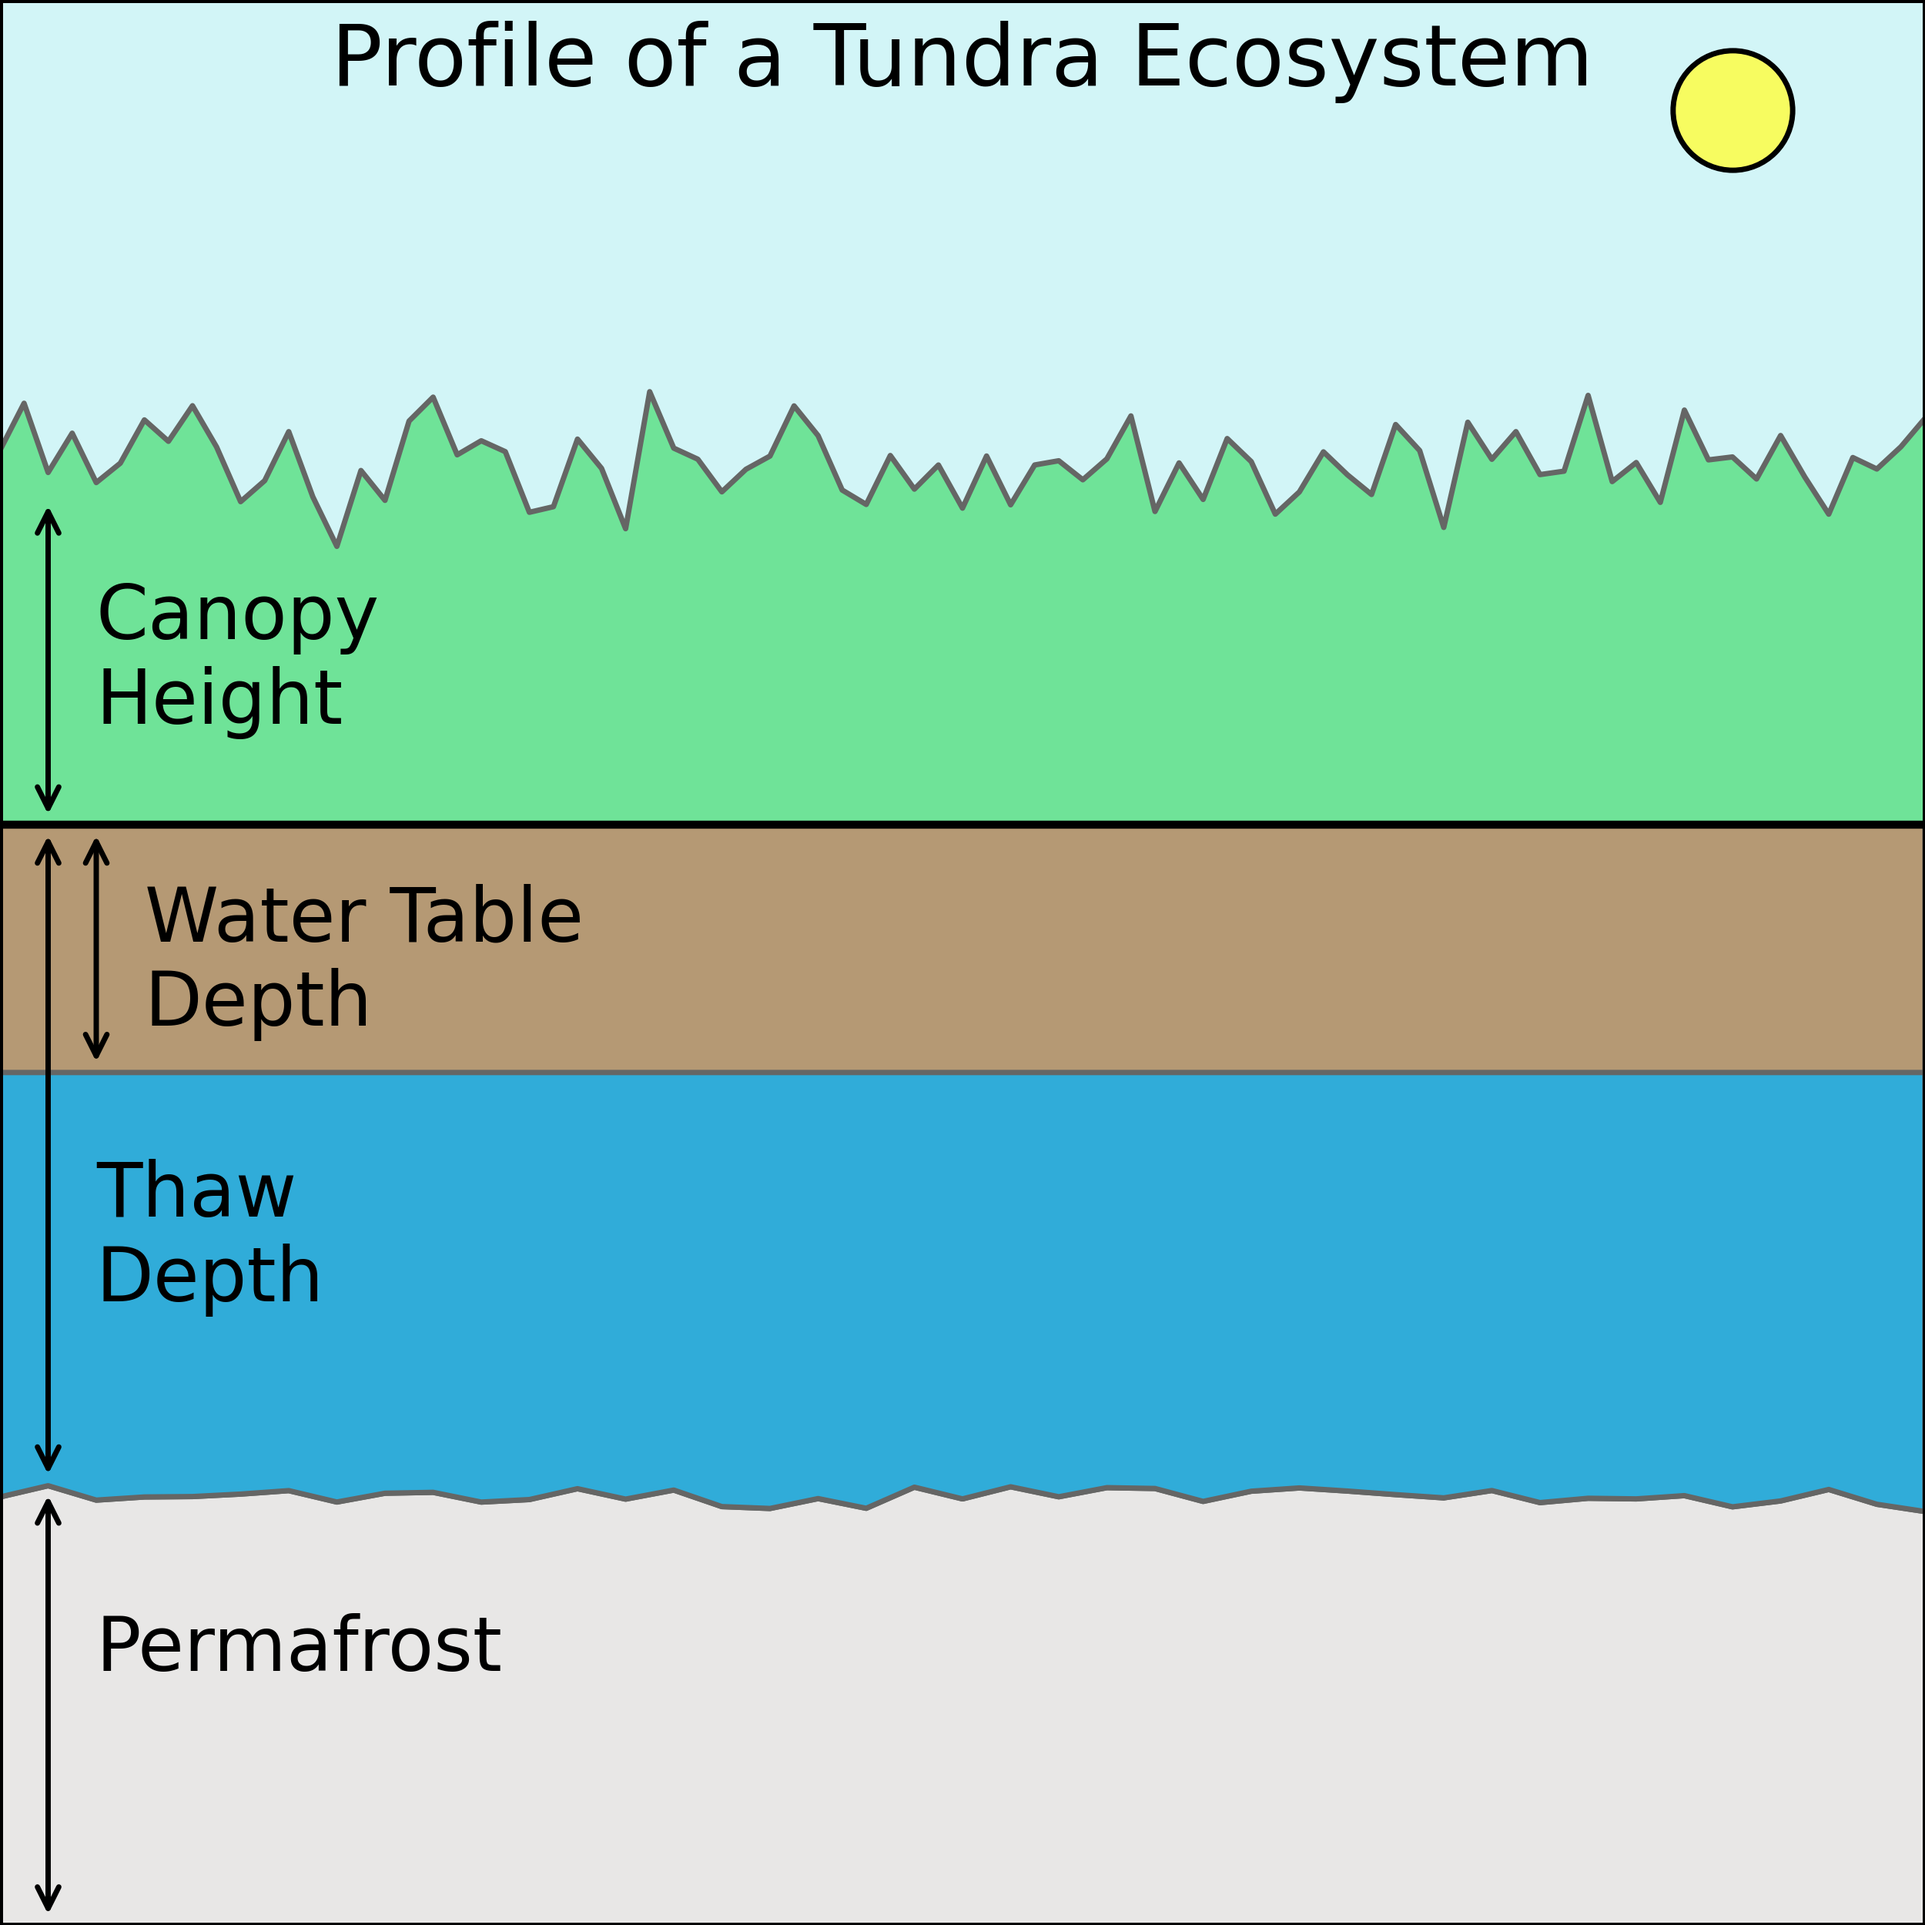
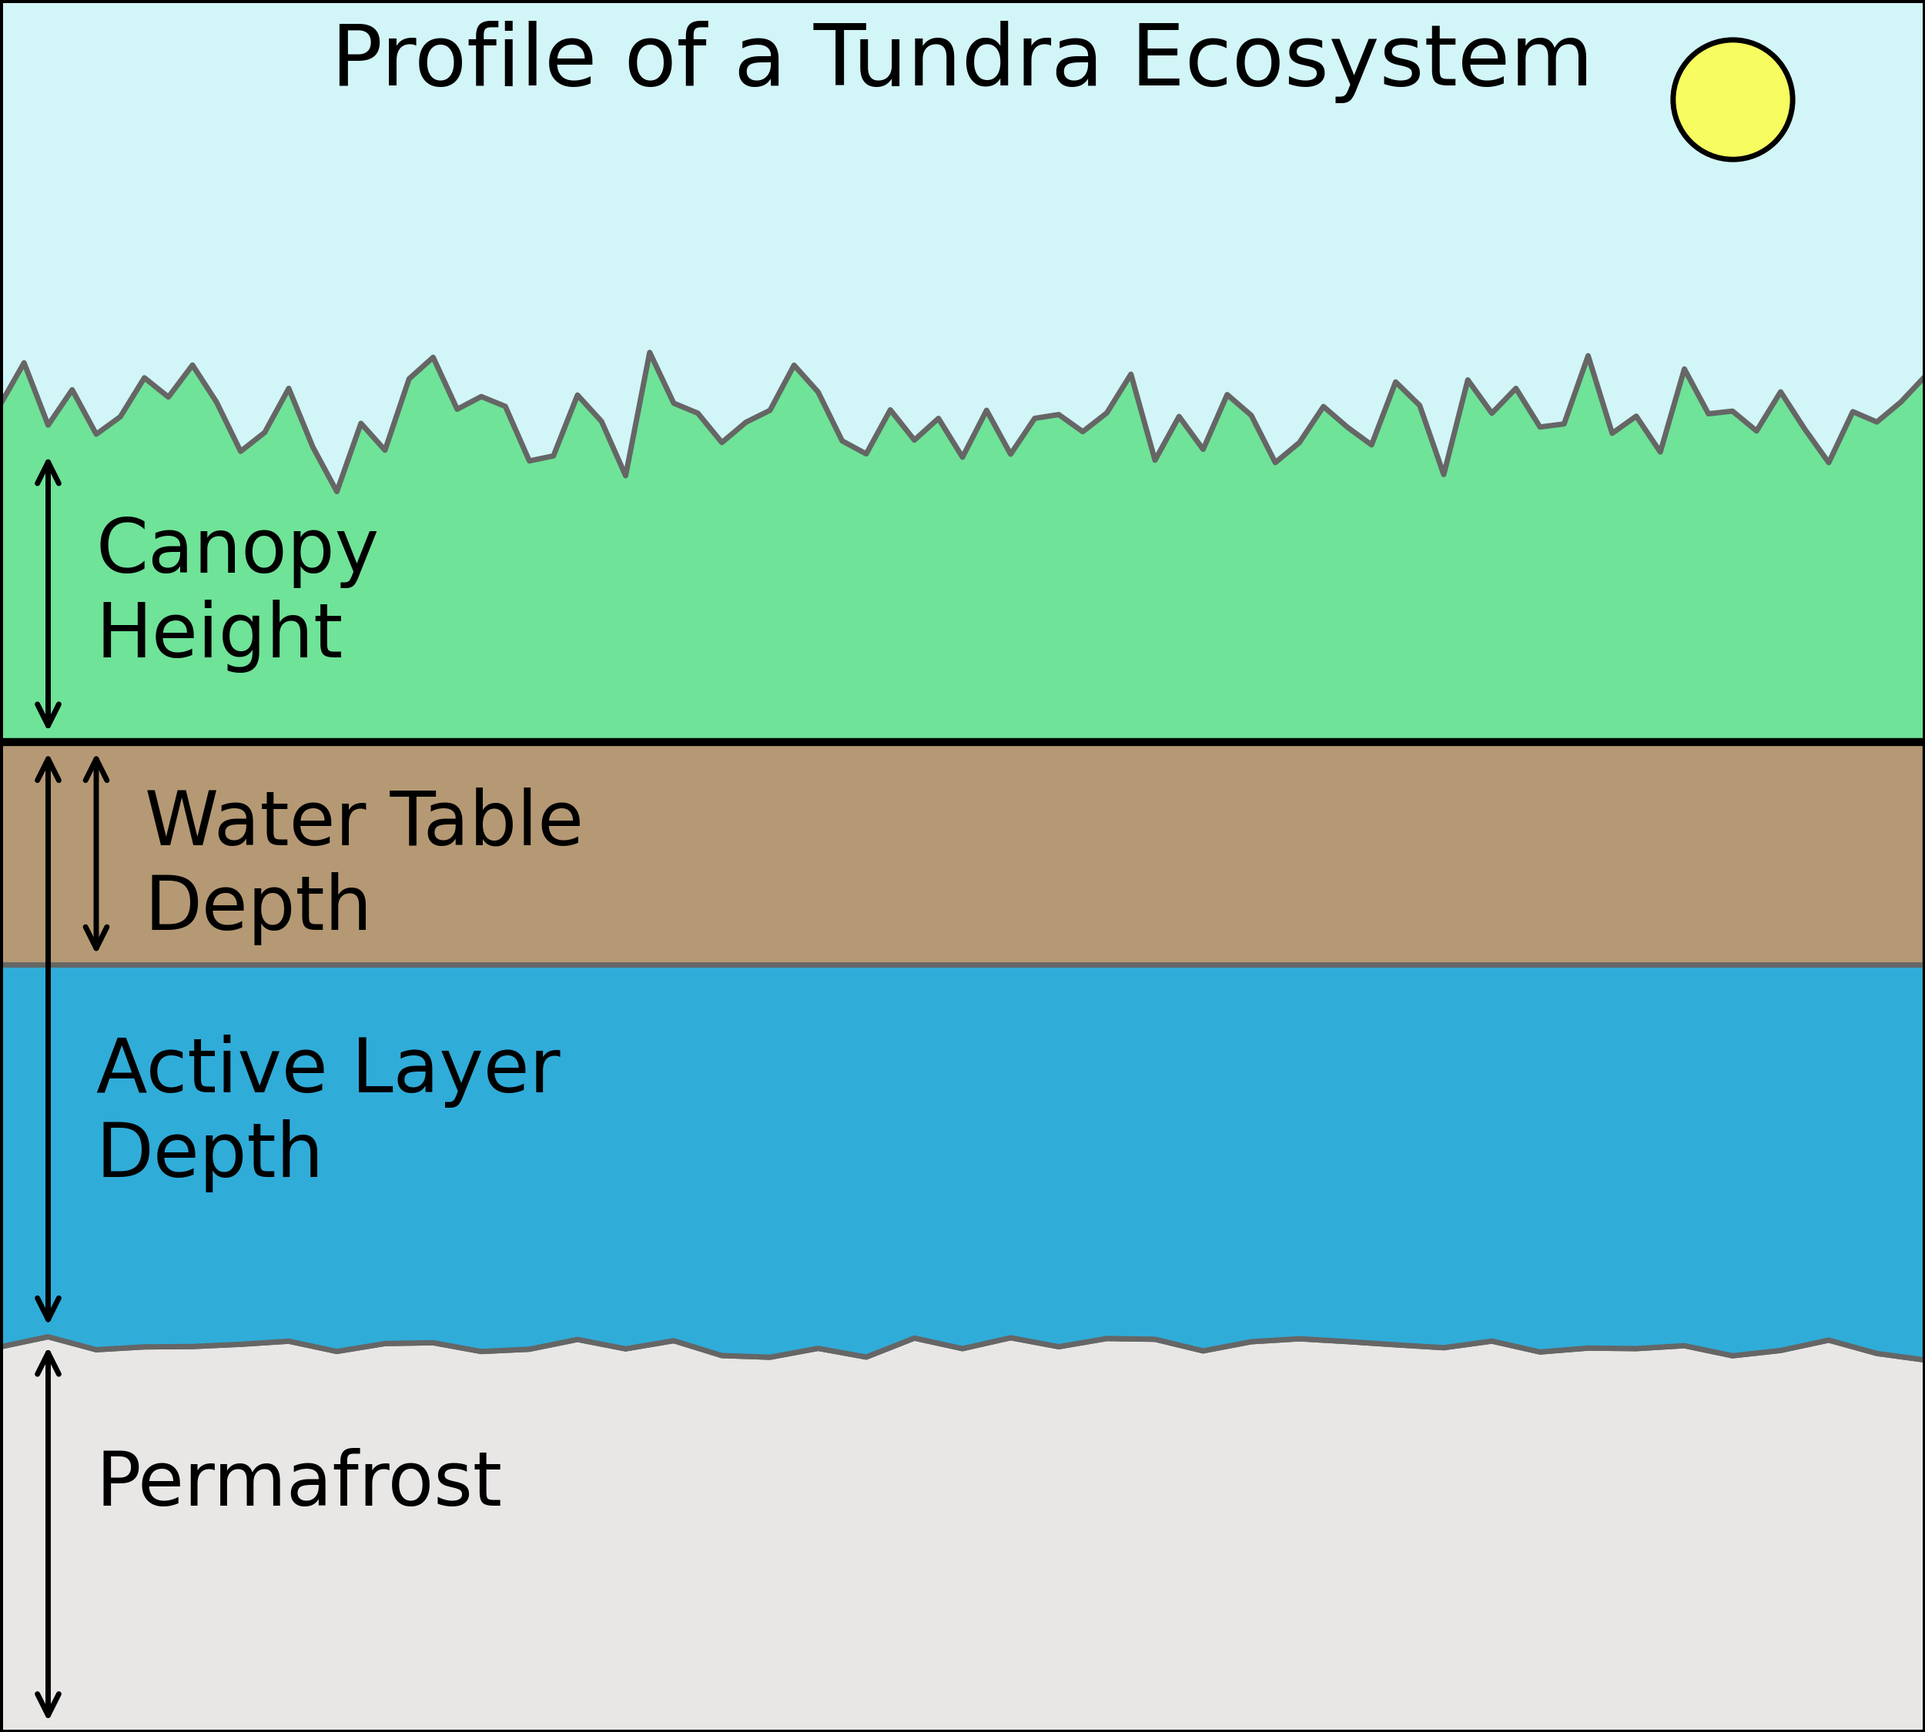
updates

diff --git a/index.html b/index.html
@@ -108,7 +108,6 @@
   top: 50%;
   -ms-transform: translateY(-50%);
   transform: translateY(-50%);
-  /* font-size: 65%; */
   text-align: center;
   display: block;
 }
@@ -135,6 +134,10 @@
  text-align: left;
  position: absolute; 
   display: flex;
+}
+
+.caption {
+  font-size: 70%;
 }
 
 h1 {
@@ -198,7 +201,18 @@ ol ol li.nl::before {
     left:0%;
     orphans: 3;
   } 
+  
+sup {
+  line-height: 0;
+  vertical-align: top;
+  font-size: 0.6em !important;
+  }
 
+sub {
+  line-height: 0;
+  vertical-align: bottom;
+  font-size: 0.6em !important;
+  }
 
 #main img {
     float: left;
@@ -225,8 +239,8 @@ ol ol li.nl::before {
           <div class="left">
             <p>I would like to acknowledge the Indigenous territories on which this work took place.</p>
             <ul>
+              <li>The study area was in the Inuvialuit Settlement Region</li>
               <li>I have been living and working in unceded Coast Salish territory</li>
-              <li>Field work was conducted in the Inuvialuit Settlement Region</li>
             </ul>
           </div>
           <div class="right">
@@ -266,7 +280,7 @@ ol ol li.nl::before {
           </div>
             <div class="figure_short">
               <img src="images/CMIP.png" width="100%"; style = "border:2px solid #555">
-              Data Source: IPCC (2021)
+              <p class="caption">Source: IPCC (2021)</p>
             </div>
       </section>
       
@@ -284,8 +298,8 @@ ol ol li.nl::before {
           </ul>
           </div>
           <div class="figure_full">
-            <img src="images/Fig1.png" width="90f%"; style = "border:2px solid #555">
-            Data Sources: Walker et al. (2005); Pallandt et al. (2021)
+            <img src="images/Fig1.png" width="100%"; style = "border:2px solid #555">
+            <p class="caption">Sources: Walker et al. (2005); Pallandt et al. (2021)</p>
           </div>
       </section>
 
@@ -293,7 +307,7 @@ ol ol li.nl::before {
         <div class="container">
           <h2 class="header">Tundra Ecosystems</h2>
           <div class="left">
-            <p>Harsh conditions limit vegetation growth.</p>
+            <p>Harsh conditions stunt vegetation.</p>
               <ul>
                 <li>Summers are brief but productive</li>
                 <li>Winters are long, dark, and frigid</li>
@@ -304,7 +318,7 @@ ol ol li.nl::before {
             </div>
             <div class="figure_short">
               <img src="images/Tundra_Veg.JPG" width="575"; style = "border:2px solid #555">
-              Reindeer grazing on willow shrubs at Illisarvik
+              <p class="caption">Reindeer grazing at Illisarvik</p>
             </div>
         </div>
       </section>
@@ -313,20 +327,24 @@ ol ol li.nl::before {
         <div class="container">
           <h2 class="header">Tundra Ecosystems</h2>
           <div class="left">
-            <p><b>Permafrost</b> is widespread in tundra environments.</p>
+            <p><b>Permafrost</b> is nearly ubiquitous in the Arctic.</p>
               <ul>
-                <li>Root growth and microbial activity occur in the <b>active layer</b></li>
+                <li><b>Active layer</b> thaws seasonally</li>
                 <ul>
-                  <li>Thaws seasonally</li>
+                  <li>Root growth</li>
+                  <li>Microbial activity</li>
                 </ul>
-                <li>Restricted drainage leads to elevated <b>water tables</b></li>
+                <li><b>Water tables</b> are often elevated</li>
                 <ul>
-                  <li>Inhibits decomposition</li>
+                  <li>Restricted drainage</li>
+                  <li>Low evapotranspiration</li>
                 </ul>                
               </ul>                
           </div>
           <div class="figure_full">
-            <img src="images/Permafrost.png" width="575"; style = "border:2px solid #555">
+            <br>
+            <br>
+            <img src="images/Permafrost.png" width="100%"; style = "border:2px solid #555">
           </div>
 
         </div>
@@ -334,64 +352,77 @@ ol ol li.nl::before {
 
       <section>
         <div class="container">
-          <h2 class="header">Tundra Carbon Balance</h2>
+          <h2 class="header">Net Ecosystem Exchange (NEE)</h2>
           <div class="left">
-            <p>Net Ecosystem Exchange (NEE) of CO<sub>2</sub> is the primary component.</p>
+            <p>NEE = ER - GPP</p>
               <ul>
-                <li>NEE = ER - GPP</li>
+                <li><b>GPP</b>: Gross Primary Productivity</li> 
                 <ul>
-                  <li><b>GPP</b>: Gross Primary Productivity</li> 
-                  <ul>
-                    <li>Photosynthetic uptake of CO<sub>2</sub></li>
-                  </ul>
-                  <li><b>ER</b>: Ecosystem Respiration</li> 
-                  <ul>
-                    <li>Autotrophic (RA) + Heterotrophic (RH)</li>
-                  </ul>
+                  <li>Photosynthetic uptake of CO<sub>2</sub></li>
                 </ul>
-                <li>-/+ NEE (uptake/emission)</li>
+                <li><b>ER</b>: Ecosystem Respiration</li> 
+                <ul>
+                  <li>Autotrophic (RA)</li>
+                  <li>Heterotrophic (RH)</li>
+                </ul>
+                <li>Sign convention</li>
+                <ul>
+                  <li>-NEE = uptake</li>
+                  <li>+NEE = emission</li>
+                </ul>
               </ul>                
           </div>
           <div class="figure_full">
-            <img src="images/Permafrost_NEE.png" width="575"; style = "border:2px solid #555">
+            <br>
+            <br>
+            <img src="images/Permafrost_NEE.png" width="100%"; style = "border:2px solid #555">
           </div>
         </div>
       </section>
           
       <section>
         <div class="container">
-          <h2 class="header">Tundra Carbon Balance</h2>
+          <h2 class="header">Net Methane Exchange (NME)</h2>
           <div class="left">
-            <p>Net Methane Exchange (NEE) of CH<sub>4</sub> is a secondary component.</p>
+            <p>NME = Production - Consumption</p>
               <ul>
-                <li>NME = Production - Consumption</li>
+                <li><b>Methanogenesis</b> </li>
                 <ul>
-                  <li>Methanogenesis in anoxic soils</li>
-                  <ul>
-                    <li>Slower pathway</li>
-                  </ul>
-                  <li>Methanotropy in aerobic soils</li>
-                  <li>Complex non-linear dynamics</li>
+                  <li>CH<sub>4</sub> production in anoxic soils</li>
                 </ul>
-                <li>-/+ NME (uptake/emission)</li>
+                <li><b>Methanotropy</b></li>
+                <ul>
+                  <li>CH<sub>4</sub> consumption in aerobic soils</li>
+                  <li>CH<sub>4</sub> converted to CO<sub>2</sub></li>
+                </ul>
+                <li>Sign convention</li>
+                <ul>
+                  <li>-NME = uptake</li>
+                  <li>+NME = emission</li>
+                </ul>
               </ul>                
           </div>
           <div class="figure_full">
-            <img src="images/Permafrost_Cbal.png" width="575"; style = "border:2px solid #555">
+            <br>
+            <br>
+            <img src="images/Permafrost_Cbal.png" width="100%"; style = "border:2px solid #555">
           </div>
         </div>
       </section>
 
       <section>
         <div class="container">
-        <h2 class="header">Mackenzie Delta</h2>
+        <h2 class="header">Mackenzie River Delta</h2>
           <div class="left">
             <p>The Arctic's 2<sup>nd</sup> largest river delta.</p>
             <ul>
               <li>Aircraft observations of NME (Kohnert et al. 2017 & 2018)</li>
               <ul>
                 <li>Gas hydrate seeps in south / west</li>
-                <li>Significant biologic emissions north of tree line (31.8 - 58.4 mg CH<sub>4</sub> m<sup>−2</sup> d<sup>−1</sup>)</li>
+                <li>Biologic emissions north of tree line</li>
+                <ul>
+                  <li>31.8 - 58.4 mg CH<sub>4</sub> m<sup>−2</sup> d<sup>−1</sup></li>
+                </ul>
               </ul>
               <li>No prior studies of NEE</li>
             </ul>
@@ -411,10 +442,15 @@ ol ol li.nl::before {
               <li>Illisarvik in 2016</li>
               <ul>
                 <li><b>Drained Thermokarst Lake Basin (DTLB)</b></li>
+                <li>Tuktoyaktuk Costal Plain</li>
+                <ul>
+                  <li>Not technically in the Delta</li>
+                </ul>
               </ul>
               <li>Fish Island in 2017</li>
               <ul>
                 <li><b>Low Center Polygon (LCP)</b> tundra peatland</li>
+                <li>Big Lake Delta Plain</li>
               </ul>
             </ul>
           </div>
